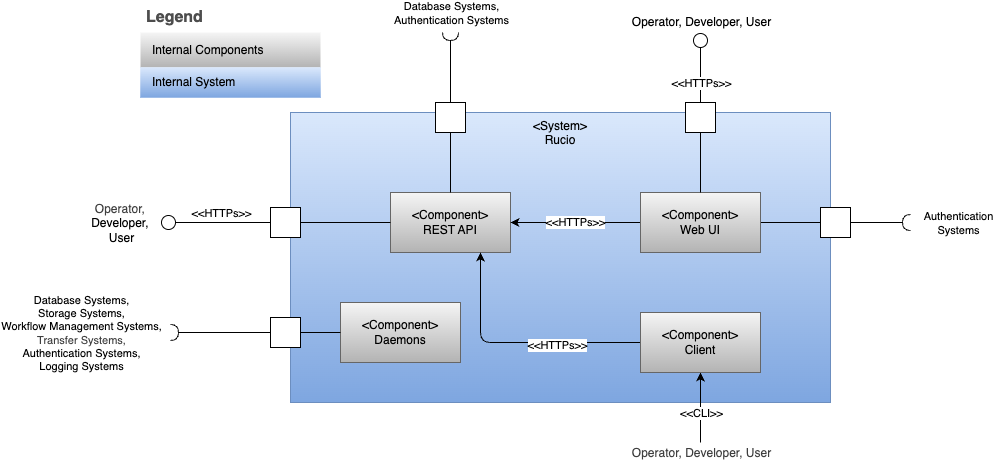
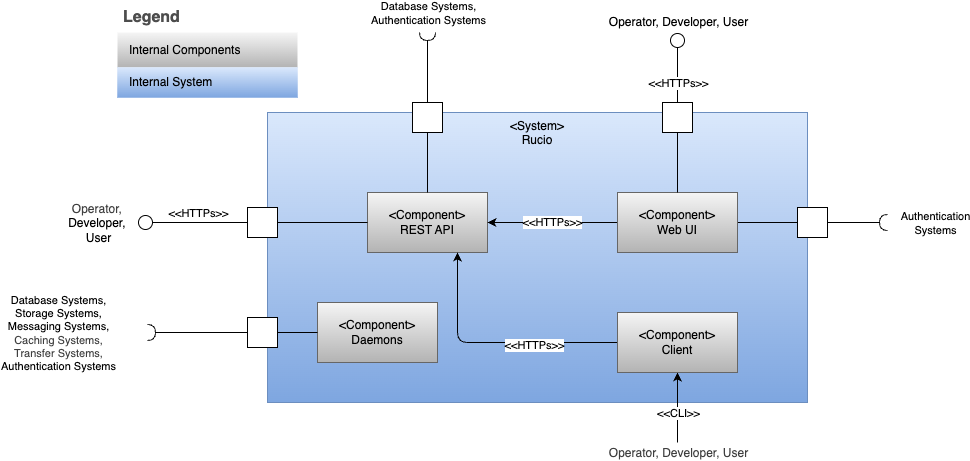
update component diagrams and related chapters based on requirements.txt dependencies in rucio GH repo

diff --git a/README.md b/README.md
@@ -32,13 +32,16 @@ See [What is Rucio?](https://rucio.github.io/documentation/started/what_is_rucio
 | Name | Type | Description |
 | --- | --- | --- |
 | Rucio | Internal System | Scientific data management framework providing declarative policy-based data organization, transfer, and lifecycle management across distributed heterogeneous storage infrastructure |
-| Workflow Management Systems | External System | Job and task orchestration platforms that coordinate with Rucio for data availability, requesting datasets at specific locations and registering job outputs for lifecycle management |
+| ~~Workflow Management Systems~~ | ~~External System~~ | ~~Job and task orchestration platforms that coordinate with Rucio for data availability, requesting datasets at specific locations and registering job outputs for lifecycle management~~ |
 | Authentication Systems | External System | Identity and access management services providing user authentication and authorization through various protocols and credential mechanisms |
 | Storage Systems | External System | Heterogeneous storage backends including traditional filesystems, object storage, tape archives, and cloud storage accessed through standardized protocols |
 | Monitoring Systems | External System | Analytics and observability platforms that collect, process, and visualize system performance metrics, usage statistics, and operational health data |
-| Logging Systems | External System | Centralized logging infrastructure that aggregates, stores, and provides search capabilities for system events, audit trails, and troubleshooting information |
+| ~~Logging Systems~~ | ~~External System~~ | ~~Centralized logging infrastructure that aggregates, stores, and provides search capabilities for system events, audit trails, and troubleshooting information~~ |
 | Database Systems | External System | Transactional relational database management systems that serve as the persistence layer for catalog metadata, system state, and configuration data |
 | Transfer Systems | External System | Data movement services and protocols that handle the physical transfer of files between storage endpoints with reliability, scheduling, and error handling capabilities |
+| Messaging Systems | External System      | Messaging services that enable asynchronous communication between distributed components, supporting event-driven architectures, decoupling, and reliable message delivery. |
+| Caching Systems | External System      | High-speed data stores that temporarily hold frequently accessed data to reduce latency, decrease load on primary data sources, and improve overall system performance. |
+
 
 ---
 
